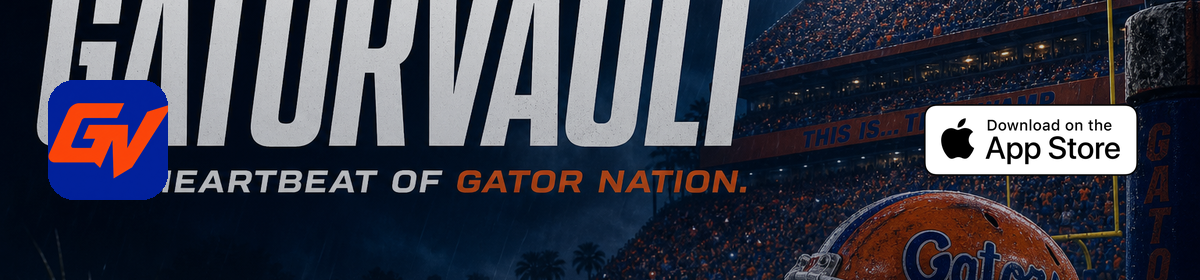
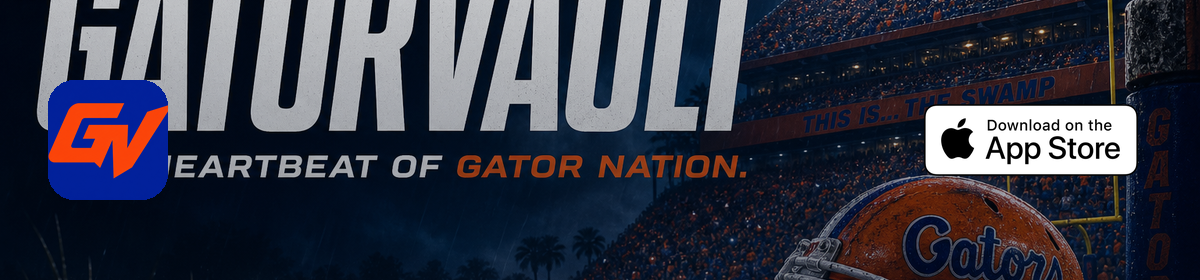
docs(promo): keep Schedule hero; move other screens off the stadium
Leave the preferred stadium+Schedule post alone. Put Live/Targets as small left-rail thumbs so the background and helmet stay visible on the other creatives.

Changed region(s): [[0.0308, 0.0, 1.0, 1.0], [0.0308, 0.4286, 0.0617, 0.5143]]

diff --git a/docs/promo/README.md b/docs/promo/README.md
@@ -1,16 +1,16 @@
 # GatorVault App Store social pack
 
-**These are the stadium creatives** (not the white background set).
+## Main (kept)
+`gatorvault-twitter-facebook-1600x900.png` — stadium + Schedule on the right (Charles preferred)
 
-## Use this one
-`gatorvault-twitter-facebook-1600x900.png` — Twitter/X + Facebook
+## Background-first (stadium open; app screens small on the LEFT)
+| File | Screen | Where |
+|---|---|---|
+| `gatorvault-twitter-background-1600x900.png` | Live + Targets | Tiny stack on left under icon |
+| `gatorvault-facebook-og-1200x630.png` | Live | Tiny left under icon |
+| `gatorvault-square-1080.png` | 2028 Targets | Tiny left under icon |
+| `gatorvault-badge-lockup-1200x280.png` | none | Background + badge only |
 
-Also:
-- `gatorvault-facebook-og-1200x630.png`
-- `gatorvault-square-1080.png`
-- `gatorvault-badge-lockup-1200x280.png`
+Helmet / stadium on the right stay visible.
 
-Direct raw download (current commit):
-https://raw.githubusercontent.com/crourk15/gatorvault-api/0f33f25d/docs/promo/gatorvault-twitter-facebook-1600x900.png
-
-App Store: https://apps.apple.com/app/id6783848215
+https://apps.apple.com/app/id6783848215
